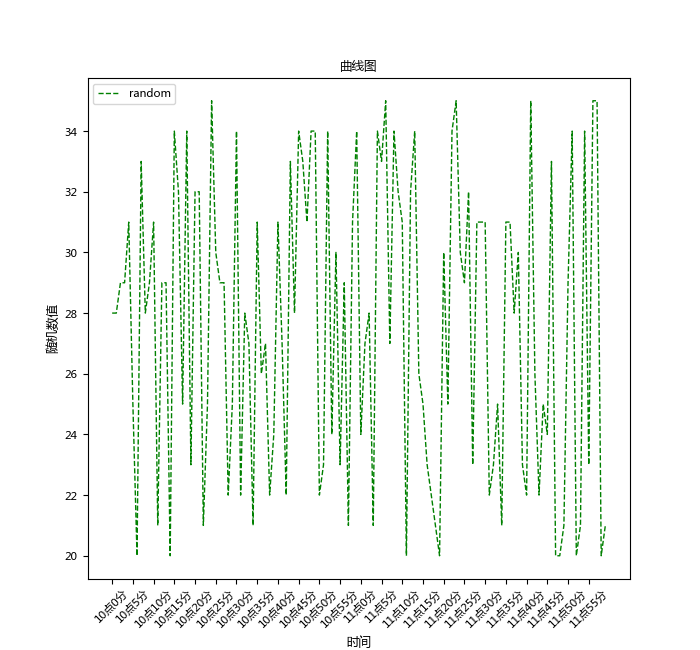
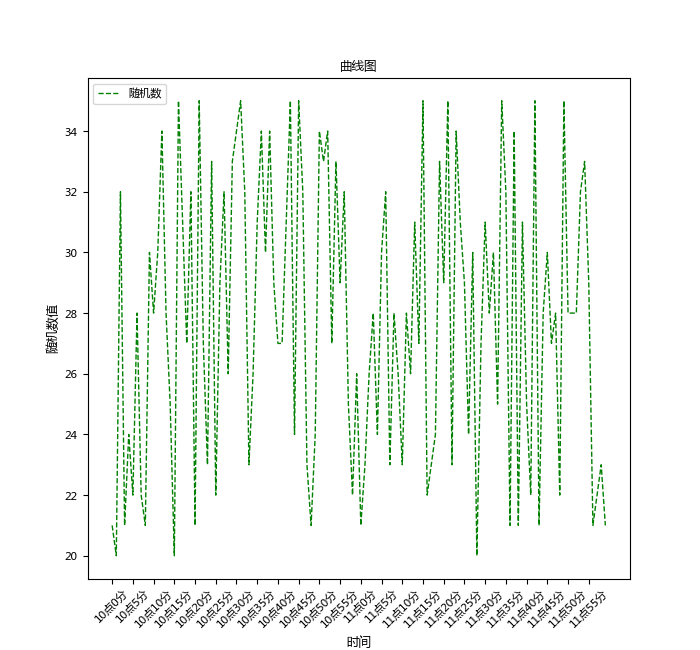
pccode21

Changed region(s): [[0.15, 0.1538, 0.87, 0.8615], [0.18, 0.1231, 0.24, 0.1538]]

diff --git a/src/data/seabron_distplot.py b/src/data/seabron_distplot.py
@@ -1,0 +1,45 @@
+import numpy as np  # numpy - Python的数值计算扩展工具包
+import pandas as pd  # pandas - 基于Numpy的数据处理工具包
+import matplotlib.pyplot as plt  # matplotlib - Python的绘图工具包
+import seaborn as sns  # seaborn - matplotlib基础上的高级可视化工具包
+import os
+
+
+os.chdir(r'.\PythonLearn\src\data')  # 创建工作路径
+df = pd.read_excel('中国奥运运动员数据.xlsx', sheet_name='中国队', header=0)
+df_length = len(df)
+df_columns = df.columns.tolist()
+data = df[['name', 'event', 'gender', 'height']]  # 数据筛选
+# data.dropna(inplace=True)  # 去掉缺失值
+# 提取男女数据
+data_male = data[data['gender'] == '男']
+data_female = data[data['gender'] == '女']
+# 计算男女平均身高
+hmean_male = data_male['height'].mean()
+hmean_female = data_female['height'].mean()
+plt.figure(figsize=(10, 5))  # 设置画布大小
+sns.set_style('darkgrid')  # 设置图表风格
+# Seaborn中有五种可供选择的主题：darkgrid(灰色网格)/whitegrid(白色网格)/dark(黑色)/white(白色)/ticks(十字叉)
+# 绘制男女高度分布密度图
+sns.distplot(data_male['height'], hist=False, kde=True, rug=True,  # 男生的身高
+            rug_kws={'color': 'y', 'lw': 2, 'alpha': 0.5, 'height': 0.1},  # 设置数据频率分布颜色
+            kde_kws={"color": "y", "lw": 1.5, 'linestyle': '--'},  # 设置密度曲线颜色，线宽，标注、线形
+            label='male_height')  # 设置图例
+sns.distplot(data_female['height'], hist=False, kde=True, rug=True,  # 女生的身高
+            rug_kws={'color': 'g', 'lw': 2, 'alpha': 0.5, 'height': 0.15},  # 设置数据频率分布颜色
+            kde_kws={"color": "g", "lw": 1.5, 'linestyle': '--'},  # 设置密度曲线颜色，线宽，标注、线形
+            label='female_height')  # 设置图例
+# 绘制运动员平均身高辅助线
+plt.axvline(hmean_male, color='y', linestyle=":", alpha=0.8)
+plt.text(hmean_male+1, 0.01, 'male_height_mean: %.1f cm' % (hmean_male), color='y')
+plt.axvline(hmean_female, color='g', linestyle=":", alpha=0.8)
+plt.text(hmean_female+1, 0.015, 'female_height_mean: %.1f cm' % (hmean_female), color='g')
+# 调整图表细节，输出并保存
+plt.xlim([120, 240])  # x轴边界
+plt.ylim([0, 0.05])               # 调整Y轴刻度
+plt.title("China athlete's height", fontsize=11)    # 添加图表名
+thismanager = plt.get_current_fig_manager()
+thismanager.window.wm_iconbitmap(r'./images/LOGO.ico')
+thismanager.canvas.set_window_title('林旭东的可视化图表')
+plt.savefig(r'./images/pic-1.png', dpi=400)  # 保存图表
+plt.show()

diff --git a/src/data/matplotlib_plot.py b/src/data/matplotlib_plot.py
@@ -30,7 +30,7 @@ y = a
 random.seed(10)
 plt.rcParams['figure.figsize'] = (7.0, 6.5)  # 图片像素
 # plt.subplot(1, 2, 1)  #建立一个高为1，宽为2的subplot网格，激活第一个网格
-plt.plot(x, y, linewidth=1, color='green', label='random', linestyle='--')
+plt.plot(x, y, linewidth=1, color='green', label='随机数', linestyle='--')
 # plot是曲线图，linewidth指定线条粗细
 # 添加虚线样式：linestyle，linestyle取值：':'、'--'、'-.'、'-'
 plt.title('曲线图', fontsize=9)  # 设置标题
